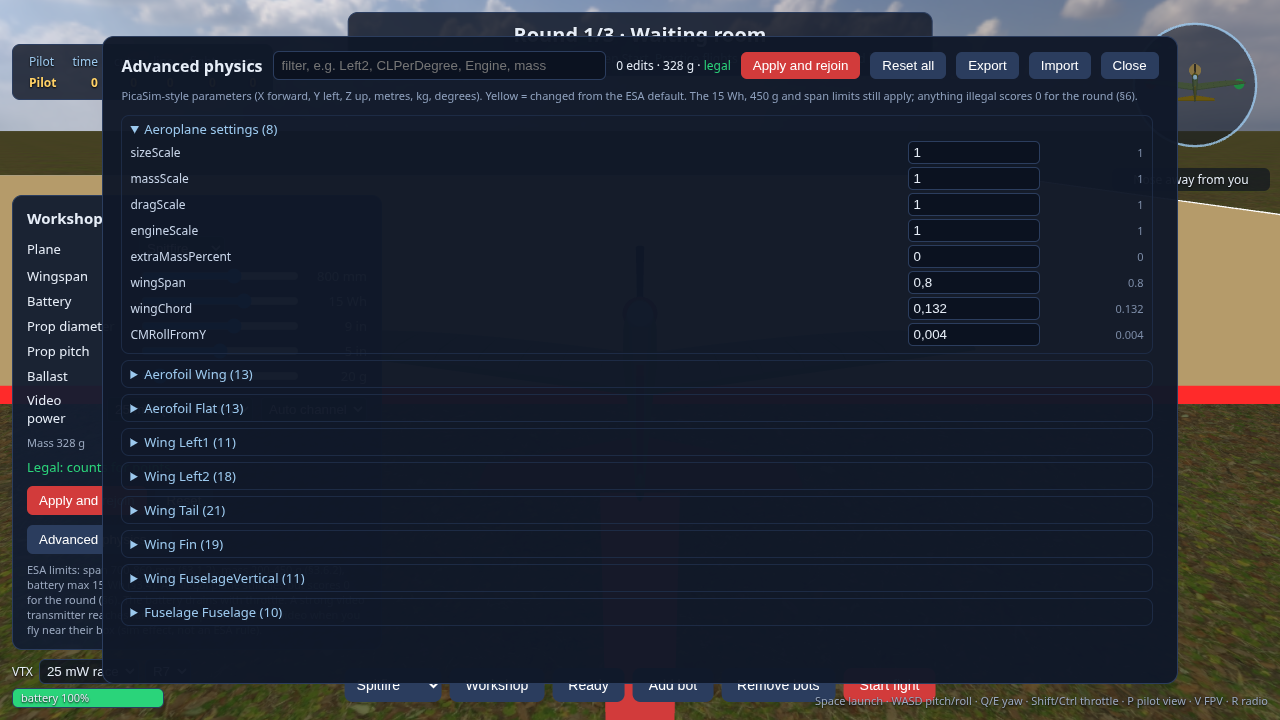
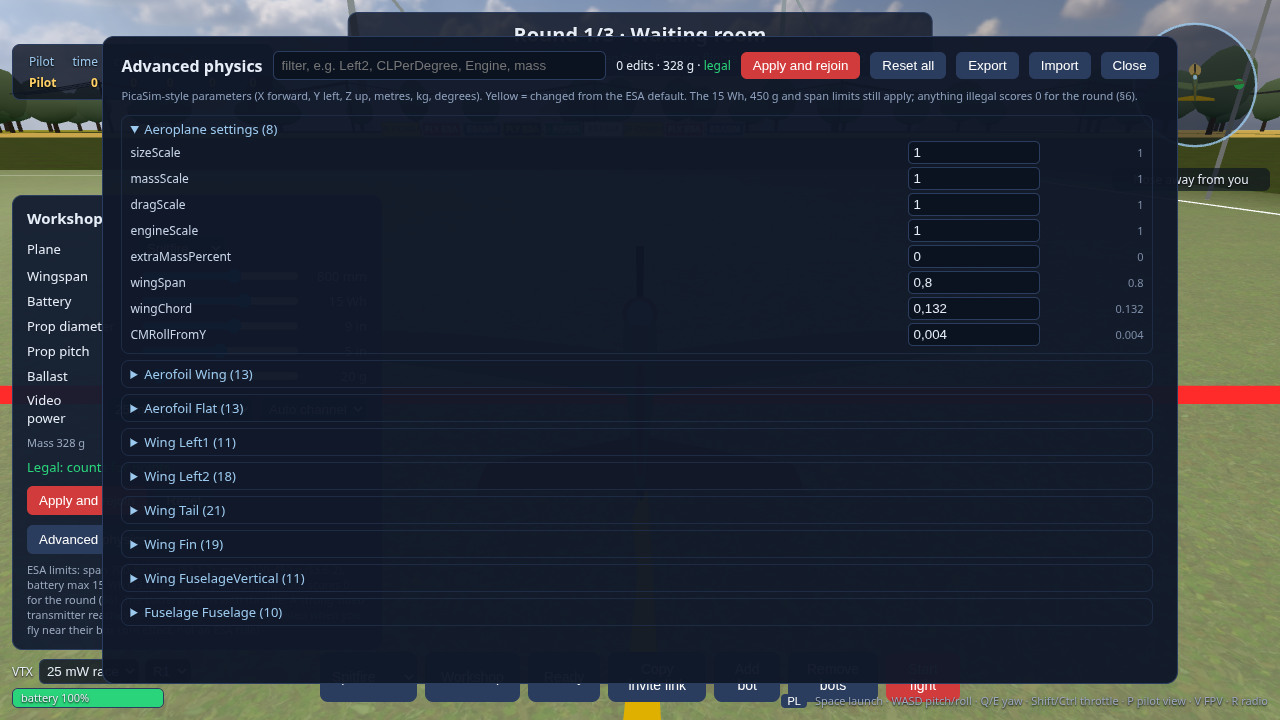
README pictures regenerated (English and Polish), radio panel and replay added

Changed region(s): [[0.0, 0.0, 1.0, 1.0], [0.25, 0.0, 0.2812, 0.0306]]

diff --git a/README.md b/README.md
@@ -25,9 +25,12 @@
 - **RadioMaster support** (any USB joystick-mode radio) with mapping and calibration (key R), ported from the author's earlier drone sim. Keyboard works too.
 - The flight model, streamer, cut detection, scoring, series, workshop and bots are headless and covered by tests (`npm test`).
 
-![Workshop with a limit violation](docs/img/workshop.png)
+![Workshop: span, battery, prop and ballast with the ESA legality check](docs/img/workshop.png)
 ![The advanced physics editor](docs/img/physics-panel.png)
-![Contest results with the winner](docs/img/results.png)
+![Results screen with the "fly it for real" links](docs/img/results.png)
+![The same screen in Polish](docs/img/results-pl.png)
+![Replay of the last fight](docs/img/replay.png)
+![Radio panel with RadioMaster and gamepad presets](docs/img/radio-panel.png)
 ![The four OpenSCAD planes](docs/img/models.png)
 ![Waiting room: bots in their start boxes](docs/img/lobby.png)
 ![A running fight seen from the start box](docs/img/fight.png)
